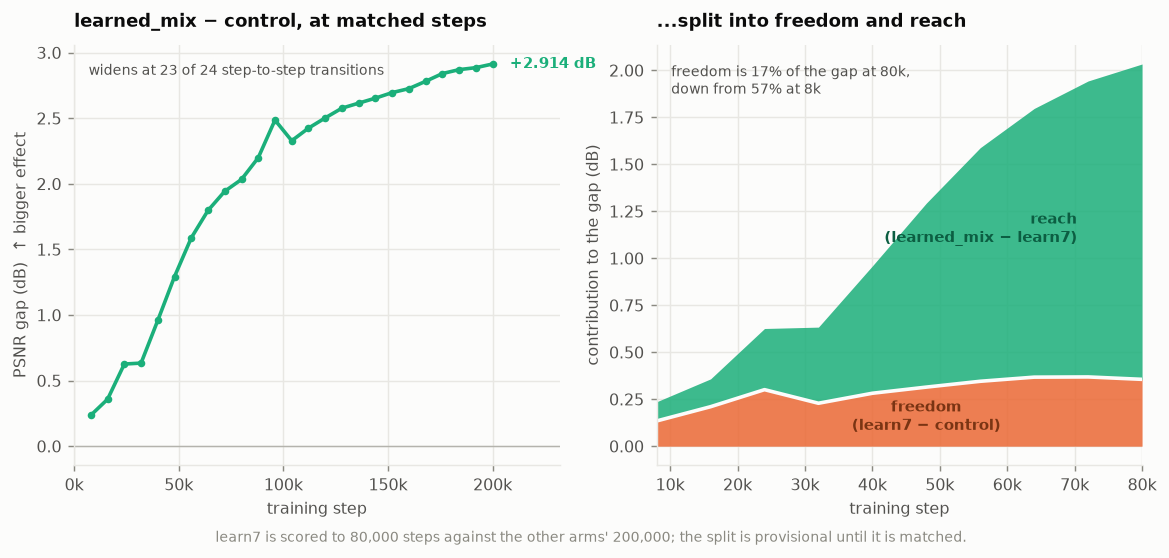
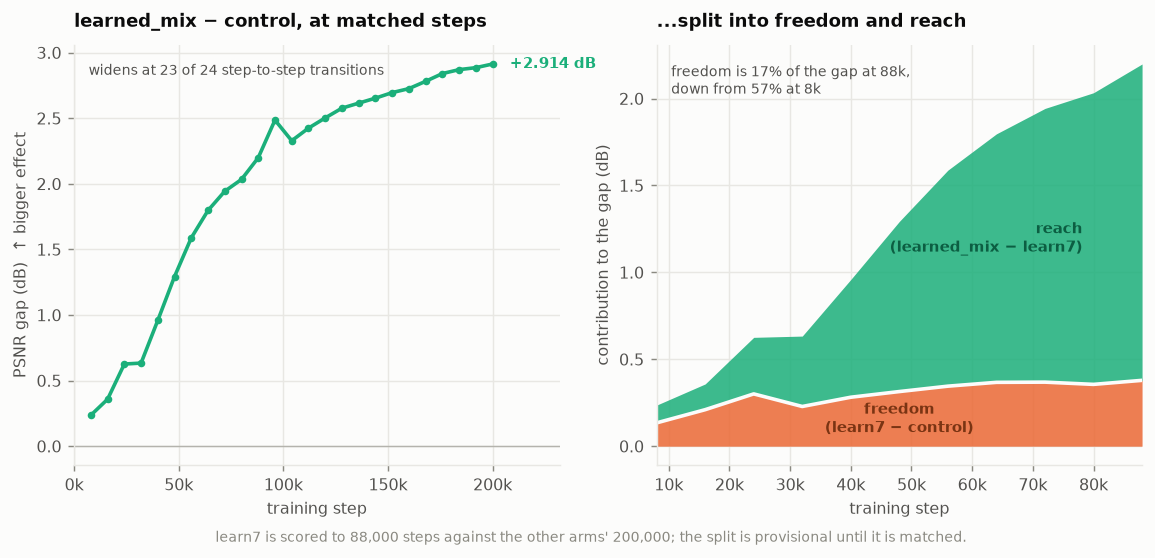
State the reasons as a list, and name the constraint behind them
The decoder-size rationale was a single paragraph that arrived at its reason
after two subordinate clauses. It is three independent reasons, so it is now
three bullets: XL does not fit, Base is trainable to its elbow, and the paper
shows Base is a reasonable codec.

Also names the constraint the whole foundation section is organised around, which
was implicit everywhere and stated nowhere: one 12GB consumer GPU, with scope cut
to match it so the remaining work could be run properly. Added to AGENTS.md as a
standing principle — when a proposal does not fit the GPU, cut the scope before
cutting the protocol.

diff --git a/postprocessing/RESULTS.md b/postprocessing/RESULTS.md
@@ -28,10 +28,14 @@ interpretation rather than measurement). That split is the point of the page.
 ## The foundation
 
 Everything below this section is a *comparison against a fixed point*. This part is how that fixed
-point was built and why it can be trusted — it is the load-bearing work, and none of the
-experiment results mean anything without it.
+point was built and why it can be trusted.
 
-### 0a. A deliberately smaller codec, so it could be trained near its own ceiling
+The constraint behind every choice here is one 12GB consumer GPU. The scope was cut to match it —
+smaller decoder, image-only, one dataset — so that what remained could be run properly rather than
+run at all. A result from an experiment that fits its resources beats a bigger experiment that
+does not.
+
+### 0a. A deliberately smaller codec, scoped to one consumer GPU
 
 mira's codec is a frozen DINOv3-L/16 feature extractor → a learned linear bottleneck → a ViT
 decoder. This rig keeps that structure exactly and shrinks the parts that make it unaffordable on
@@ -50,18 +54,24 @@ one consumer GPU (RTX 4070 Ti, 12GB):
 | compression | 442,368 → 4,608 values per frame = **96×**, spatial only |
 | optimiser | AdamW, lr 1e-4, betas [0.9, 0.95], weight decay 0.1 |
 
-Two choices here matter for reading anything downstream.
+Everything shrunk here was shrunk to fit the scope to one consumer GPU. Two of those choices
+change how the results downstream should be read.
 
-**The Base decoder, not mira's XL.** The XL configuration comes to **596,129,440 trainable
-parameters** against Base's 114,188,320, and OOMs on 12GB under fp32 Adam.
-The first response was to fork mira's trainer to force bf16; the actual fix was to use mira's own
-smaller Base config, which deleted the fork — training now runs `mira/scripts/train_codec.py`
-completely unmodified, config-only. The better reason to prefer Base emerged afterwards: it is the
-only size cheap enough to train *near its own convergence ceiling*, and comparing two
-near-converged variants is a different and much sounder thing than comparing two undertrained ones.
+**The Base decoder, not mira's XL.** Three reasons, in the order they mattered:
+
+- **XL does not fit.** 596,129,440 trainable parameters against Base's 114,188,320; it OOMs on
+  12GB under fp32 Adam.
+- **Base is trainable to its elbow.** 272,000 steps, ~35h. XL at 5× the parameters would not have
+  been, and a gap measured between two undertrained arms tells you which trains faster, not which
+  is better.
+- **The paper says Base is a reasonable codec.** It reaches 27.6 dB there, so this is a smaller
+  configuration of mira's, not a degraded one.
+
+Both are mira's own configs, so this is a config change and not a fork — training runs
+`mira/scripts/train_codec.py` unmodified.
 
 **Image-only.** `timesteps: 1` and no temporal stride, so the 96× compression here is purely
-spatial where mira's 192× includes a 2× temporal reduction. This is the single biggest reason no
+spatial where mira's 192× includes a 2× temporal reduction. This is the biggest single reason no
 absolute number on this page is comparable with the paper's.
 
 ### 0b. The benchmark was calibrated before it was trusted — and it failed its own test

diff --git a/postprocessing/stats.md b/postprocessing/stats.md
@@ -45,7 +45,7 @@ Captured by `extract_run_metadata.py`. `benchmark.jsonl` holds the scored PSNR r
 | `C_baseline_seed2` | 20 | 1 | 1 | 1234–1234 (1) | cosine |
 | `plateau_baseline` | 305 | 34 | 44 | 28–66 (32) | mixed (40 constant, 4 cosine) |
 | `warmstart_control` | 201 | 25 | 29 | 28–52 (25) | constant |
-| `warmstart_learn7` | 84 | 10 | 11 | 28–38 (11) | constant |
+| `warmstart_learn7` | 89 | 11 | 11 | 28–38 (11) | constant |
 | `warmstart_learned_mix` | 201 | 25 | 25 | 28–52 (25) | constant |
 
 **Paired-design check.** Arms compared against each other must have drawn the same data at the same steps. Seeds are derived as `SEED_BASE + step/CHUNK`, so a seed identifies a slice of the stream:
@@ -174,7 +174,7 @@ In the metric the page is actually about, that band is 4.762 dB short of where t
 | 64000 | 24.729 | 25.097 | 26.526 |
 | 72000 | 24.649 | 25.018 | 26.592 |
 | 80000 | 24.472 | 24.828 | 26.506 |
-| 88000 | 24.170 | — | 26.369 |
+| 88000 | 24.170 | 24.549 | 26.369 |
 | 96000 | 23.774 | — | 26.260 |
 | 104000 | 24.570 | — | 26.898 |
 | 112000 | 24.701 | — | 27.125 |
@@ -211,6 +211,7 @@ Baselines: constant-LR plateau 24.747 dB (`plateau-272000`), annealed 24.885 dB 
 | 64000 | +0.367 | +1.430 | +1.797 | 20% |
 | 72000 | +0.369 | +1.575 | +1.943 | 19% |
 | 80000 | +0.356 | +1.678 | +2.034 | 17% |
+| 88000 | +0.379 | +1.820 | +2.199 | 17% |
 
 ### Total gap, learned_mix − control, at every matched step
 

diff --git a/AGENTS.md b/AGENTS.md
@@ -32,6 +32,13 @@ have (mira trains 250k+ steps on 8 GPUs; this runs on one consumer 4070 Ti). The
 benchmark that reliably answers *"is this change to the codec better than mira's stock one?"* at a
 much smaller, single-GPU scale, using paired A/B comparisons against a locked baseline checkpoint.
 
+**Scope the experiment to the resources, not the ambition.** Every reduction here — the Base
+decoder instead of XL, image-only instead of temporal, one dataset — exists so that what remains
+can be run *properly*: to its elbow, paired, and long enough that the gap is not a difference in
+training speed. A smaller experiment carried to completion answers a question; a bigger one stopped
+early answers none. When a proposal does not fit the GPU, cut the scope before cutting the
+protocol.
+
 ## Where things stand (as of the last commit)
 
 - A calibrated, plateaued, annealed **baseline codec** is locked at
